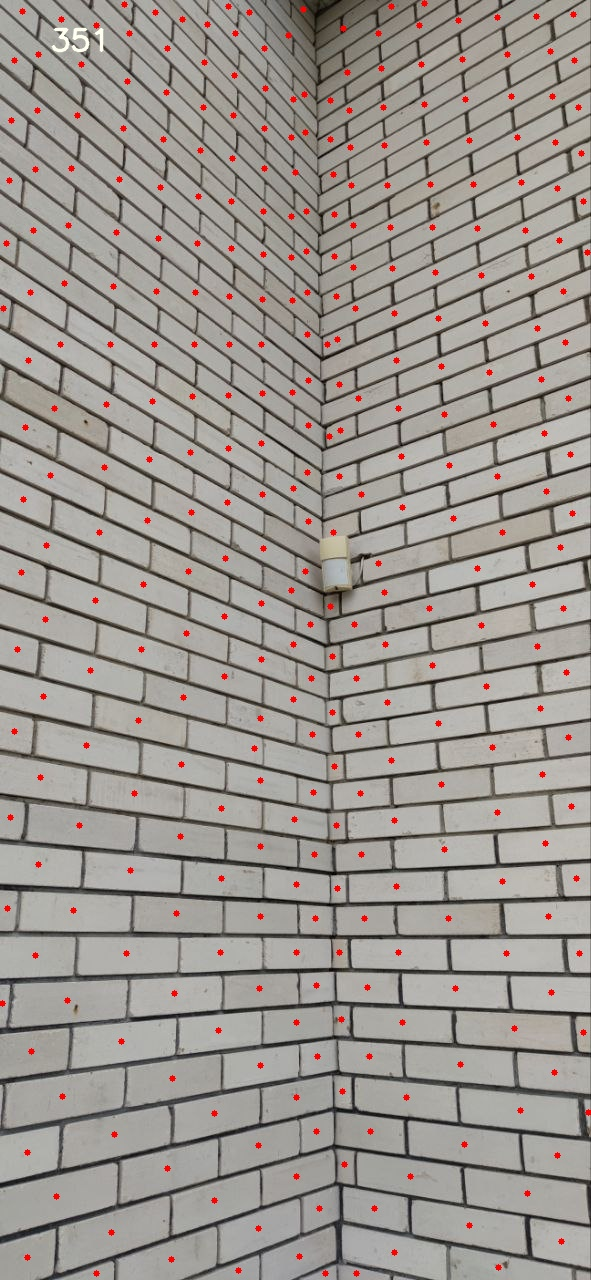
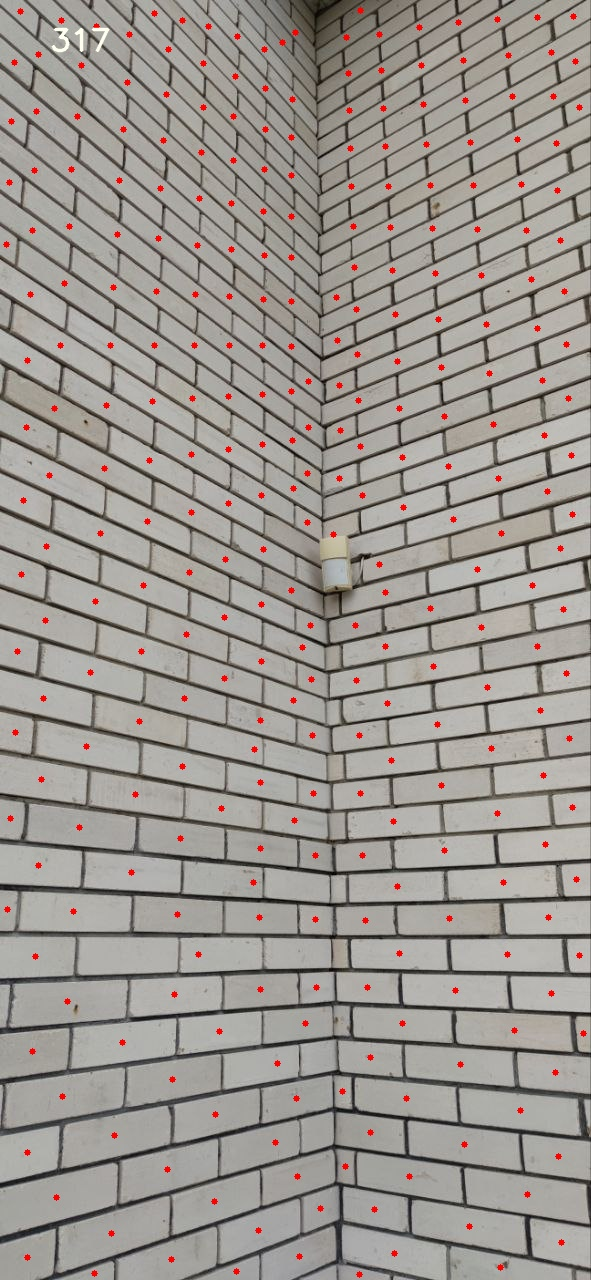
Imroved perfomance, minor syntax improvements

diff --git a/main.py b/main.py
@@ -4,15 +4,11 @@ import os
 import random
 import sys
 
-
-WIDTH = 800
-HEIGHT = 800
-
 NOICE_KERNEL_SIZE = (9, 9)
 ADAPTIVE_THRESHOLD_KERNEL_SIZE = 21
 ADAPTIVE_THRESHOLD_CONSTANT = 3
-CONTOUR_AREA_THRESHOLD = 250
-CONTOUR_AREA_COUNTING_THRESHOLD = 50
+CONTOUR_AREA_THRESHOLD = 150
+CONTOUR_AREA_COUNTING_THRESHOLD = 250
 CONTOURS_DELTA = 150
 EROSION_KERNEL = np.full((15,15), -5, np.uint8)
 EROSION_KERNEL_SMALL_PIECES = np.full((3,3), -5, np.uint8)
@@ -45,10 +41,9 @@ if __name__ == "__main__":
     images_amount = len(images)
 
     for index in range(images_amount):
-        img = images[index]
+        image = images[index]
         name = names[index]
-        shrinked = cv.resize(img, (WIDTH, HEIGHT))
-        blurred = cv.GaussianBlur(shrinked, (NOICE_KERNEL_SIZE), 0)
+        blurred = cv.GaussianBlur(image, (NOICE_KERNEL_SIZE), 0)
         grayscaled = cv.cvtColor(blurred, cv.COLOR_BGR2GRAY)
         thresh = cv.adaptiveThreshold(grayscaled,255,cv.ADAPTIVE_THRESH_MEAN_C,cv.THRESH_BINARY,ADAPTIVE_THRESHOLD_KERNEL_SIZE,ADAPTIVE_THRESHOLD_CONSTANT)
         thresh_inversed = cv.bitwise_not(thresh)
@@ -65,16 +60,17 @@ if __name__ == "__main__":
             eroded = cv.erode(thresh, EROSION_KERNEL_SMALL_PIECES)
             contours = find_filtered_contours(eroded, 2)
 
-        result = img.copy()
+        result = image.copy()
         print(len(contours))
         for i in contours:
             M = cv.moments(i)
             if M['m00'] != 0:
                 cx = int(M['m10']/M['m00'])
                 cy = int(M['m01']/M['m00'])
-                img_width = np.shape(img)[0]
-                img_height = np.shape(img)[1]
-                cv.circle(result, (int(cx * img_height / HEIGHT), int(cy * img_width / WIDTH)), 3, (0, 0, 255), -1) #TODO
+                image_width = np.shape(image)[0]
+                image_height = np.shape(image)[1]
+                cv.circle(result, (cx, cy), 3, (0, 0, 255), -1) #TODO
+
 
         cv.putText(result, str(len(contours)), (50,50), cv.FONT_HERSHEY_SIMPLEX, 1, (240, 255, 255), 2, cv.LINE_AA)
         cv.imwrite('./res/'+name, result)
